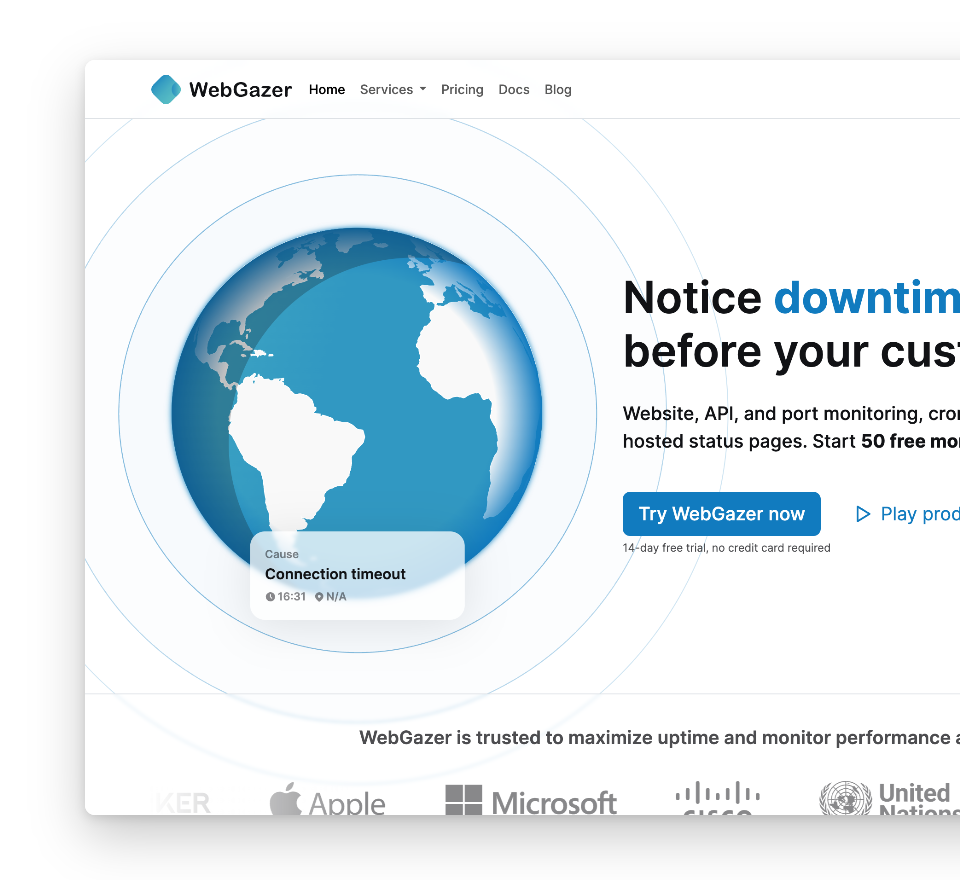
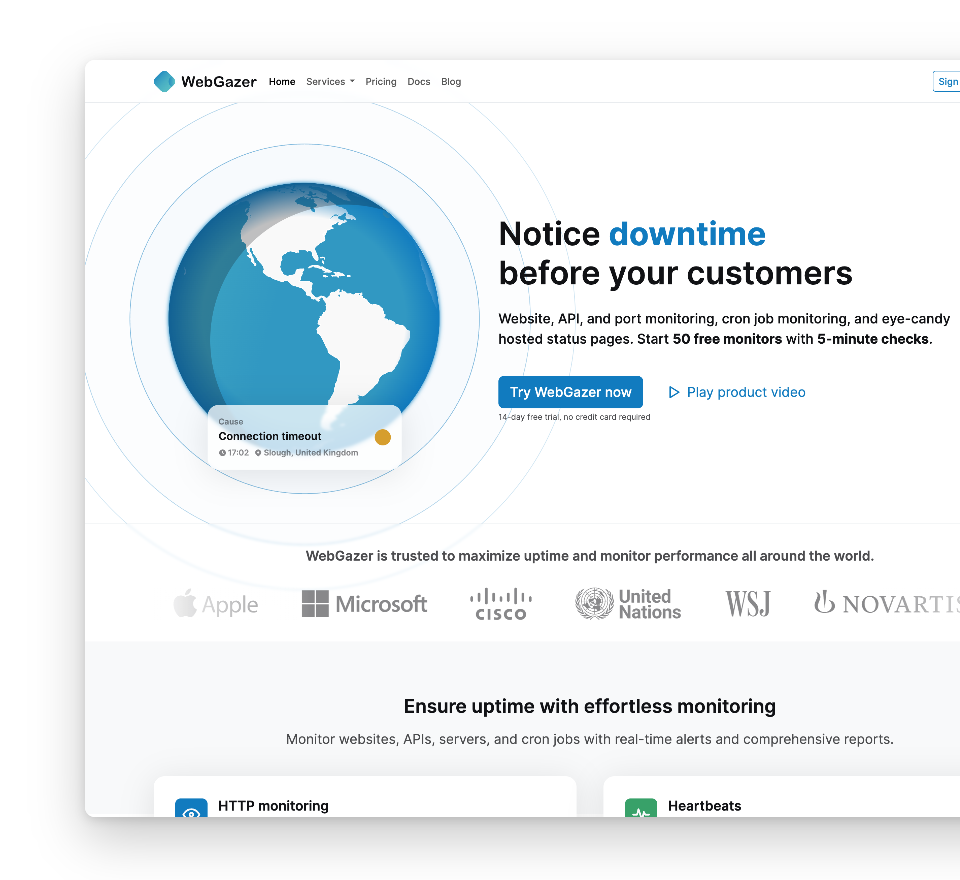
adjusted work previews and dated WebGazer
- WebGazer: re-shot the hero at 4:3 so it fills the preview frame
  without cropping, and dated the work 2023
- Kafagoz: three shots instead of four, identical width, 310px
  visible each, catan in front

diff --git a/works/webgazer/index.md b/works/webgazer/index.md
@@ -1,6 +1,6 @@
 ---
 title: 'WebGazer'
-date: 2024-01-01
+date: 2023-01-01
 client: WebGazer
 services: 'UI/UX design'
 tech: 'Figma'
